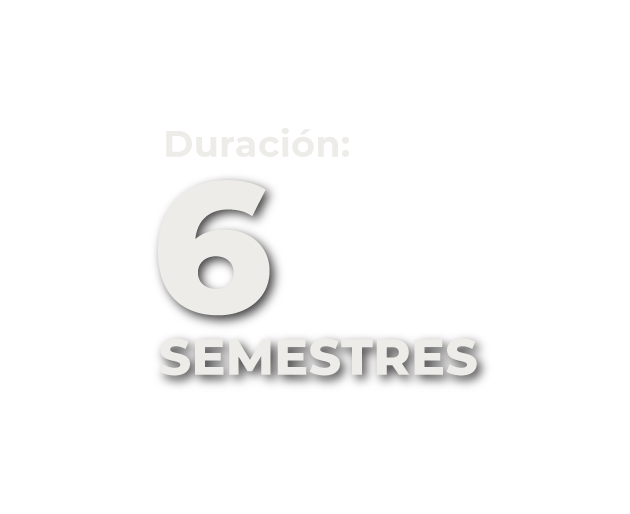
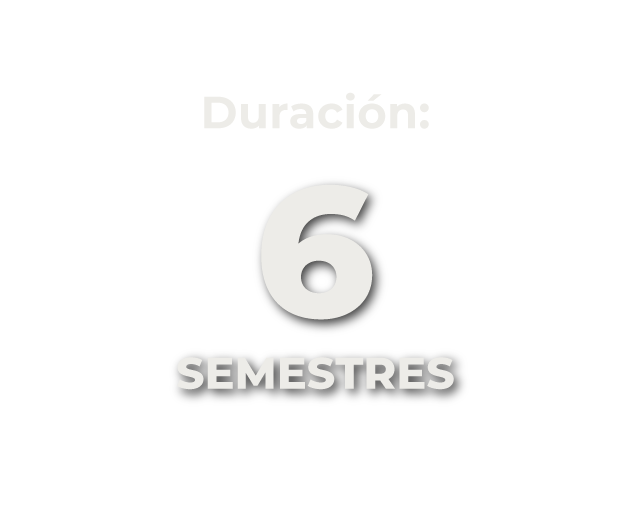
version final 1.0

Changed region(s): [[0.2413, 0.3424, 0.7841, 0.7782], [0.3016, 0.4981, 0.3921, 0.5603], [0.5127, 0.3424, 0.573, 0.3735]]

diff --git a/src/visitorUser/EifaKidsScreen.js b/src/visitorUser/EifaKidsScreen.js
@@ -28,17 +28,41 @@ export const EifaKidsScreen = () => {
               MODALIDAD PRESENCIAL
             </i></center>
           </div>                   
-          <div className='row'>
+          {/* <div className='row'>
             <div className='col-sm'>
-              <img src= { `./assets/img/Ek1.png` } width= "65%" height= "auto" style={{ marginLeft: '10vh', paddingTop: '5vh' }}></img>
+              <img src= { `./assets/img/Ek1.png` } width= "100%" height= "auto"></img>
             </div>
             <div className='col-sm'>
-              <img src= { `./assets/img/Ek2.png` } width= "100%" height= "auto" style={{ marginLeft: '1vh', paddingTop: '5vh' }}></img>
+              <img src= { `./assets/img/Ek2.png` } width= "100%" height= "auto" ></img>
             </div>
             <div className='col-sm'>
-                <img src= { `./assets/img/Ek3.png` } width= "55%" height= "auto" style={{ marginLeft: '5vh', paddingTop: '5vh' }}></img>
+                <img src= { `./assets/img/Ek3.png` } width= "100%" height= "auto" ></img>
+            </div>
+          </div> */}
+
+
+          <div className='row pantalla-pequenia'>
+            <div className='col-sm'>
+              <img className="teatro-musical-img1 " src= { `./assets/img/Ek1.png` } width= "100%" height= "auto" ></img>
+            </div>
+            <div className='col-sm'>
+              <img className="teatro-musical-img2 " src= { `./assets/img/Ek2.png` } width= "100%" height= "auto" ></img>
+            </div>
+            <div className='col-sm'>
+              <img className="teatro-musical-img3 " src= { `./assets/img/Ek3.png` } width= "100%" height= "auto" ></img>
             </div>
           </div>
+
+          <div className='row pantalla-grande'>
+            <div className='col-12'>
+              <img className="teatro-musical-img1 " src= { `./assets/img/EkGrande.png` } width= "100%" height= "auto" ></img>
+          </div>
+        </div>
+
+
+
+
+
         </div>
       </div>
 
@@ -77,7 +101,9 @@ export const EifaKidsScreen = () => {
 
         <div className='container' style={{ paddingTop: '5vh', paddingBottom: '5vh' }}>
           <center><div style={{ color: '#1e3687', fontSize: '1.5rem', fontWeight: 'bold' }}>PARA MÁS INFORMACIÓN SOBRE LAS PRÓXIMAS MATRÍCULAS</div></center>
-          <center><img src= { `./assets/img/Matriculas13.png` } width= '35%' height= 'auto' style={{ paddingTop: '2vh' }}></img></center>
+          <a href="https://wa.link/3h7nxd" target="_blank">
+            <center><img src= { `./assets/img/Matriculas13.png` } width= '35%' height= 'auto' style={{ paddingTop: '2vh' }}></img></center>
+          </a>
         </div>
 
       <Footer/>

diff --git a/src/visitorUser/TeatroMusicalScreen.js b/src/visitorUser/TeatroMusicalScreen.js
@@ -13,13 +13,13 @@ export const TeatroMusicalScreen = () => {
     <NavBarScreen/>
     <CarouselScreen2/>
     <div style={{ backgroundColor: '#4d5480' }}>
-        <div className='container' style={{ paddingTop: '5vh', paddingBottom: '15vh' }}>
+        <div className='container' style={{ paddingTop: '7vh', paddingBottom: '5vh' }}>
           <div className='col-sm-12'>
             <center>
               <img src= { `./assets/img/Matriculas1.png` } className="imagen-con-tamanio"  style={{ paddingTop: '5vh' }}></img>
-              <h2 style={{ paddingTop: '5vh', textAlign: 'center', fontSize: '2rem', color: '#eeede9', fontWeight:'900' }}>MODALIDAD PRESENCIAL</h2>
+              <h2 style={{ paddingTop: '6vh', paddingBottom:'6vh', textAlign: 'center', fontSize: '2rem', color: '#eeede9', fontWeight:'900' }}>MODALIDAD PRESENCIAL</h2>
             </center>
-            <div className='row'>
+            <div className='row pantalla-pequenia'>
               <div className='col-sm'>
                 <img className="teatro-musical-img1 " src= { `./assets/img/Matriculas2.png` } width= "100%" height= "auto" ></img>
               </div>
@@ -28,6 +28,12 @@ export const TeatroMusicalScreen = () => {
               </div>
               <div className='col-sm'>
                 <img className="teatro-musical-img3 " src= { `./assets/img/Matriculas4.png` } width= "100%" height= "auto" ></img>
+              </div>
+            </div>
+
+            <div className='row pantalla-grande' style={{paddingLeft:'6vh'}}>
+              <div className='col-12'>
+                <img className="teatro-musical-img1 " src= { `./assets/img/Matriculas5.PNG` } width= "100%" height= "auto" ></img>
               </div>
             </div>
           </div>

diff --git a/src/index.css b/src/index.css
@@ -39,15 +39,36 @@ p {
 }
 
 .titulos-grandes {
-  font-family: "Sorts Mill Goudy", serif;
+  font-family: "Montserrat", sans-serif !important;
+  font-weight: 800;
 }
 .titulos-grandes-directora {
   font-family: "Sorts Mill Goudy", serif !important;
 }
 
+.pantalla-grande{
+  width:100%;
+  /* display: none !important; */
+}
+
+.pantalla-pequenia{
+  display: none !important;
+}
+
+@media only screen and (max-width: 600px) {
+  .pantalla-grande{
+    /* width:100%; */
+    display: none !important;
+  }
+  .pantalla-pequenia{
+    display: flex !important;
+    /* width:100%; */
+  }
+}
+
 @media only screen and (max-width: 600px) {
   .titulos-grandes {
-    font-family: "Sorts Mill Goudy", serif;
+    font-family: "Montserrat", sans-serif !important;
     text-align:center;
     
   }
@@ -65,13 +86,13 @@ p {
   }
 
   .teatro-musical-img2 {
-    width:85%;
-    padding-left: 15vw;
+    width:100%;
+    /* padding-left: 15vw; */
   }
 
   .teatro-musical-img3 {
     width:100%;
-    padding-left: 2vw;
+    /* padding-left: 2vw; */
   }
 }
 

diff --git a/src/visitorUser/CasasScreen.js b/src/visitorUser/CasasScreen.js
@@ -82,12 +82,12 @@ export const CasasScreen = () => {
                   indomables con un alto sentido de independencia, sabiduría, justicia y libertad. Los 
                   integrantes de la Casa. 
                 <div style={{ color: '#ffffff', textAlign: 'justify', fontSize: '1.0rem'}}></div>
-                  Pegasus suelen ser personas que generan
+                  
                 </div>
               </div>
               <div className='col-12 col-sm-6'>
                 <div style={{ color: '#ffffff', textAlign: 'justify', fontSize: '1.0rem', paddingTop: '5vh' }}>
-                  gran paz y tranquilidad; su mayor virtud es la 
+                Pegasus suelen ser personas que generan gran paz y tranquilidad; su mayor virtud es la 
                   fidelidad y sus ventajas son la inteligencia y sentido de verdad. Suelen ser muy 
                   determinados y solamente desatan su lado salvaje para conseguir lo que se han propuesto, 
                   usando sus dones de astucia, y agilidad. 

diff --git a/src/visitorUser/navBar/NavBarScreen.js b/src/visitorUser/navBar/NavBarScreen.js
@@ -105,8 +105,8 @@ export const NavBarScreen = () => {
 
             <a href={"/"} className="sobre-enlace"> 
               <li className="nav-item active flex-wrap">
-                <div className="nav-link pr-4 pl-4 " href="#" onClick={()=>menuSeleccionado(1)}>
-                  <img src={"./assets/logos/Sello-EIFA.png"} width="75vw" height="auto" alt=""></img>
+                <div className="nav-link pr-4 pl-4 pt-0 pb-0 " href="#" onClick={()=>menuSeleccionado(1)}>
+                  <img src={"./assets/logos/Sello-EIFA.png"} width="85vw" height="auto" alt=""></img>
                 </div>
               </li>
             </a>
